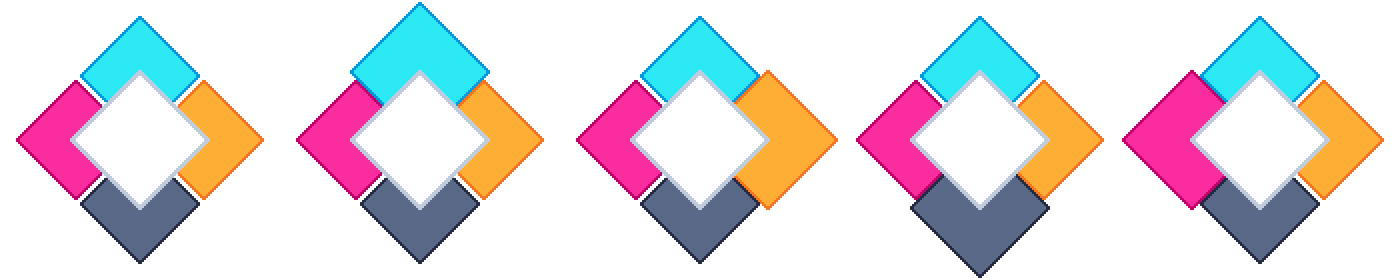
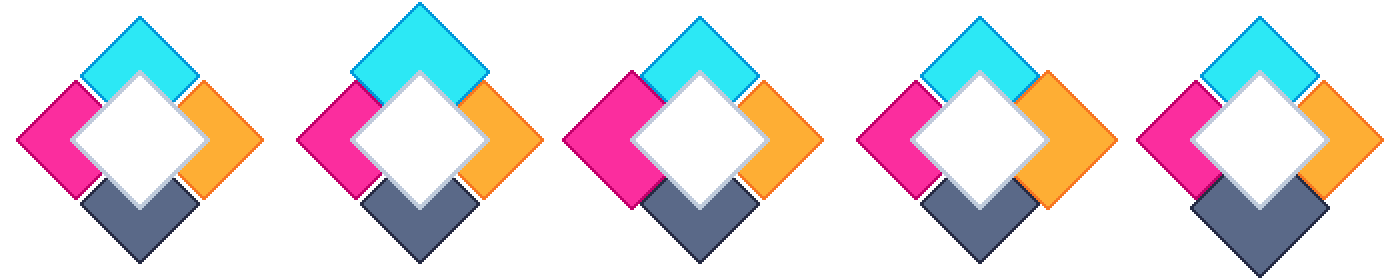
rearranged colors

Changed region(s): [[0.645, 0.2571, 0.9521, 1.0], [0.5221, 0.2571, 0.6143, 0.7429], [0.3993, 0.2571, 0.4914, 0.7429]]

diff --git a/src/scenes/Switcher.js b/src/scenes/Switcher.js
@@ -67,19 +67,19 @@ class Switcher extends Phaser.Scene {
 
         } else if (Math.abs(this.input.x - this.switcher.x) <= 35 && this.switcher.y - this.input.y > 35) {
             this.switcher.play({key: 'switch', startFrame: 1});
-            this.switcher_bg.fillColor = eval('Color'+(this.switcher.anims.currentFrame.index - 1));
-
-        } else if (this.input.x - this.switcher.x > 35 && Math.abs(this.input.y - this.switcher.y) <= 35) {
-            this.switcher.play({key: 'switch', startFrame: 2});
-            this.switcher_bg.fillColor = eval('Color'+(this.switcher.anims.currentFrame.index - 1));
-
-        } else if (Math.abs(this.input.x - this.switcher.x) <= 35 && this.input.y - this.switcher.y > 35) {
-            this.switcher.play({key: 'switch', startFrame: 3});
-            this.switcher_bg.fillColor = eval('Color'+(this.switcher.anims.currentFrame.index - 1));
+            this.switcher_bg.fillColor = Color1
 
         } else if (this.switcher.x - this.input.x > 35 && Math.abs(this.input.y - this.switcher.y) <= 35) {
+            this.switcher.play({key: 'switch', startFrame: 2});
+            this.switcher_bg.fillColor = Color2
+        } else if (this.input.x - this.switcher.x > 35 && Math.abs(this.input.y - this.switcher.y) <= 35) {
+            this.switcher.play({key: 'switch', startFrame: 3});
+            this.switcher_bg.fillColor = Color3
+
+        } else if (Math.abs(this.input.x - this.switcher.x) <= 35 && this.input.y - this.switcher.y > 35) {
             this.switcher.play({key: 'switch', startFrame: 4});
-            this.switcher_bg.fillColor = eval('Color'+(this.switcher.anims.currentFrame.index - 1));
+            this.switcher_bg.fillColor = Color4
+
         }
     }
 }

diff --git a/src/main.js b/src/main.js
@@ -6,9 +6,7 @@ let config = {
     physics: {
         default: 'arcade',
         arcade: {
-            gravity: {y: 0},
-            enableBody: true,
-            debug: true
+            debug: false
         }
     }
 };
@@ -17,11 +15,11 @@ let keyW, keyA, keyS, keyD;
 
 let moveSpeed = 10;
 
-let Color1 = 0x2ce8f5;
-let Color2 = 0xfeae34
-let Color3 = 0x5a6988;
-let Color4 = 0xfb2d9e;
+let Color1 = 0x2ce8f5; // cyan
+let Color2 = 0xfb2d9e; // magenta
+let Color3 = 0xfeae34; // yellow
+let Color4 = 0x5a6988; // key
 
-let Color = Color1;
+let Color = eval('Color' + Phaser.Math.Between(1, 4));
 
 let game = new Phaser.Game(config);
